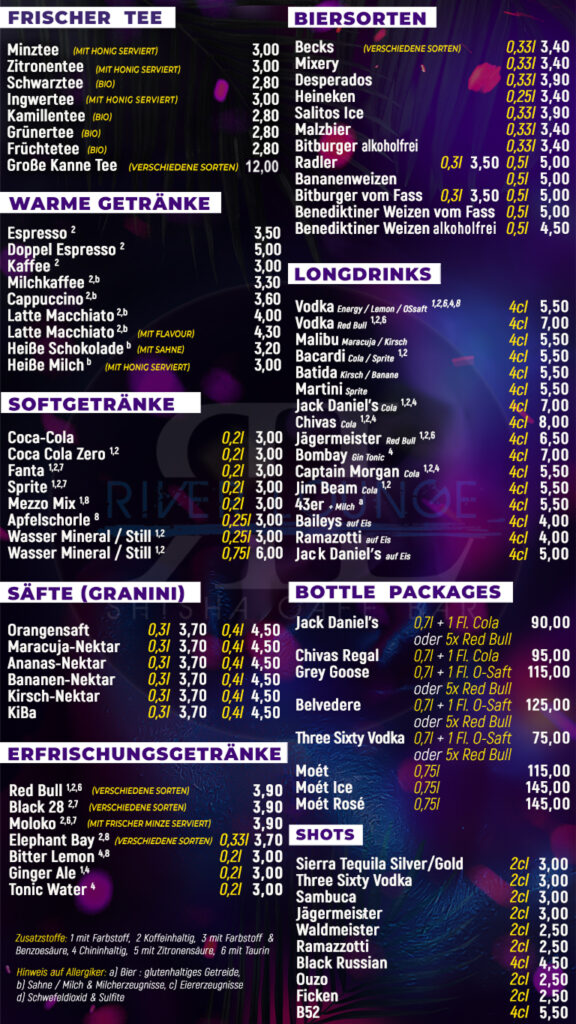
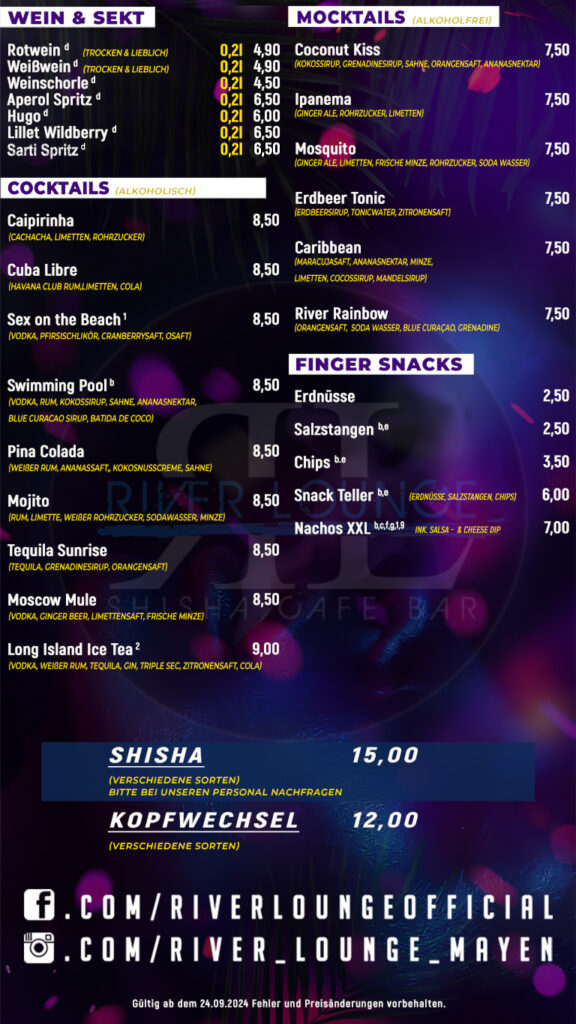
add changes

diff --git a/index.html b/index.html
@@ -6255,7 +6255,7 @@
 
                                             <div class="menu-images">
                                               <img
-                                                src="./custom/menu-image-1.jpg"
+                                                src="./custom/menu-image-1.png"
                                                 alt="Menu Page 1"
                                               />
                                               <img

diff --git a/karte/index.html b/karte/index.html
@@ -6267,7 +6267,7 @@
 
                                             <div class="menu-images">
                                               <img
-                                                src="./custom/menu-image-1.jpg"
+                                                src="./custom/menu-image-1.png"
                                                 alt="Menu Page 1"
                                               />
                                               <img
